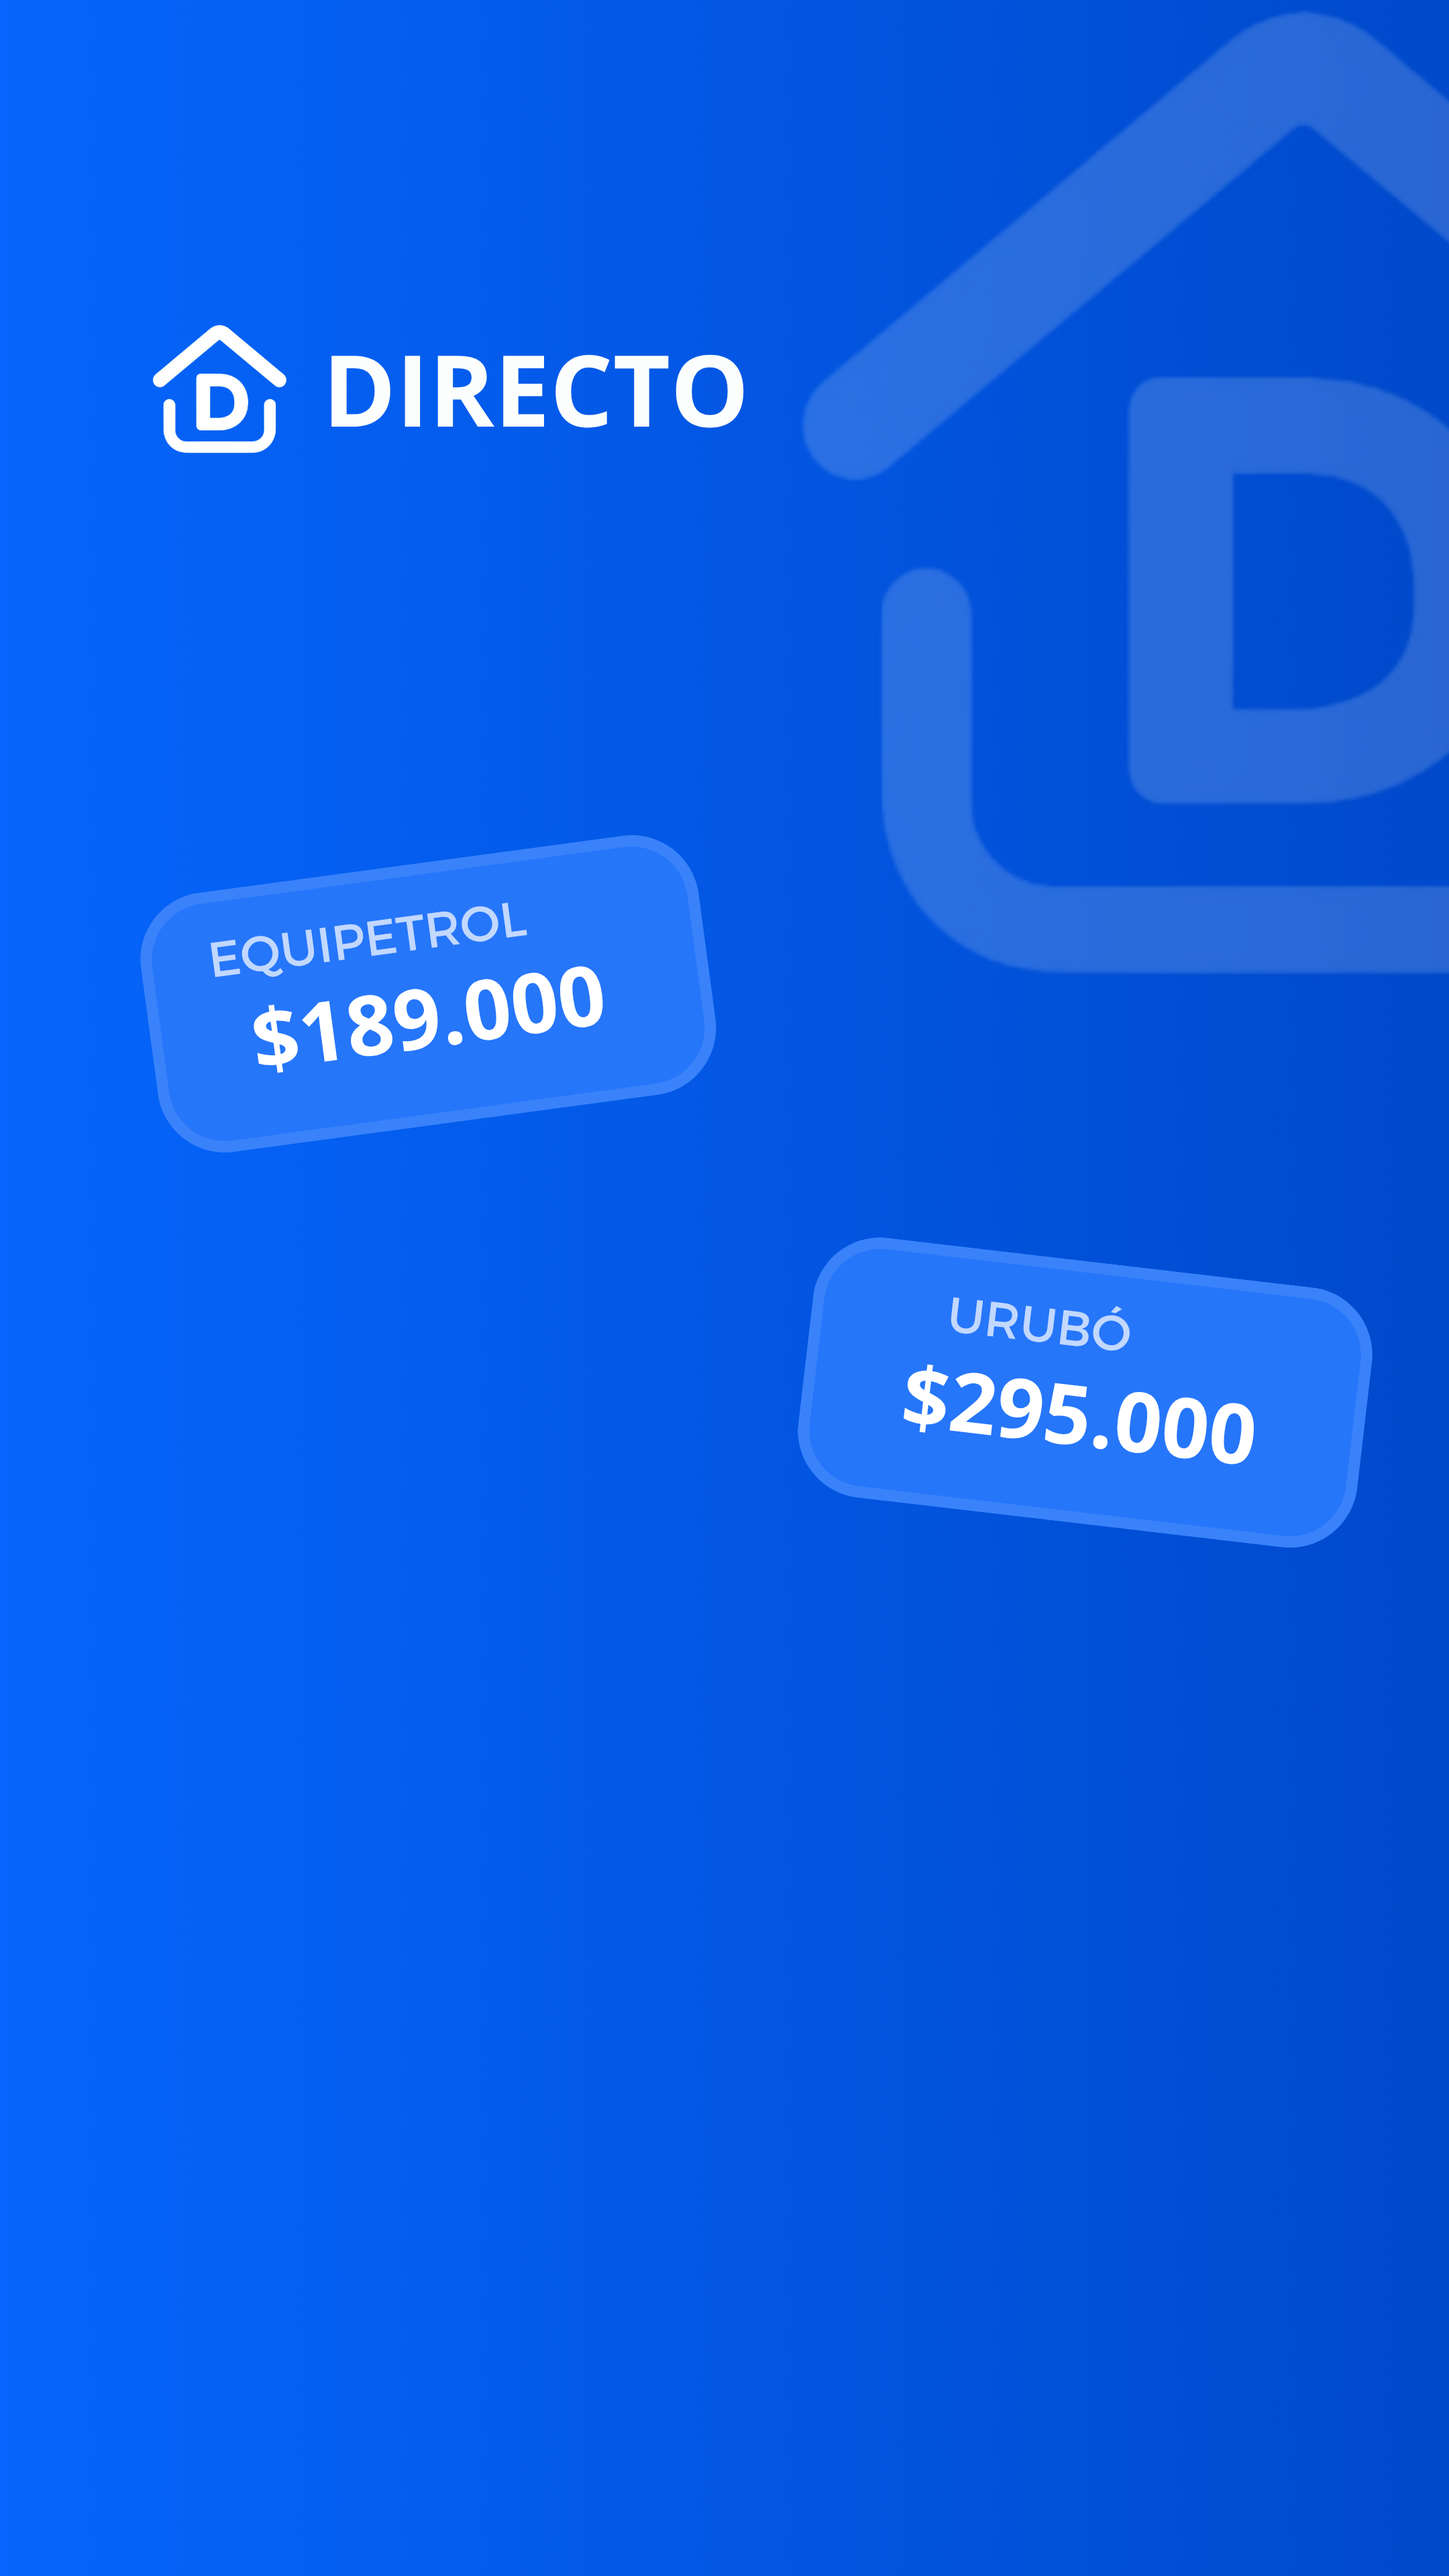
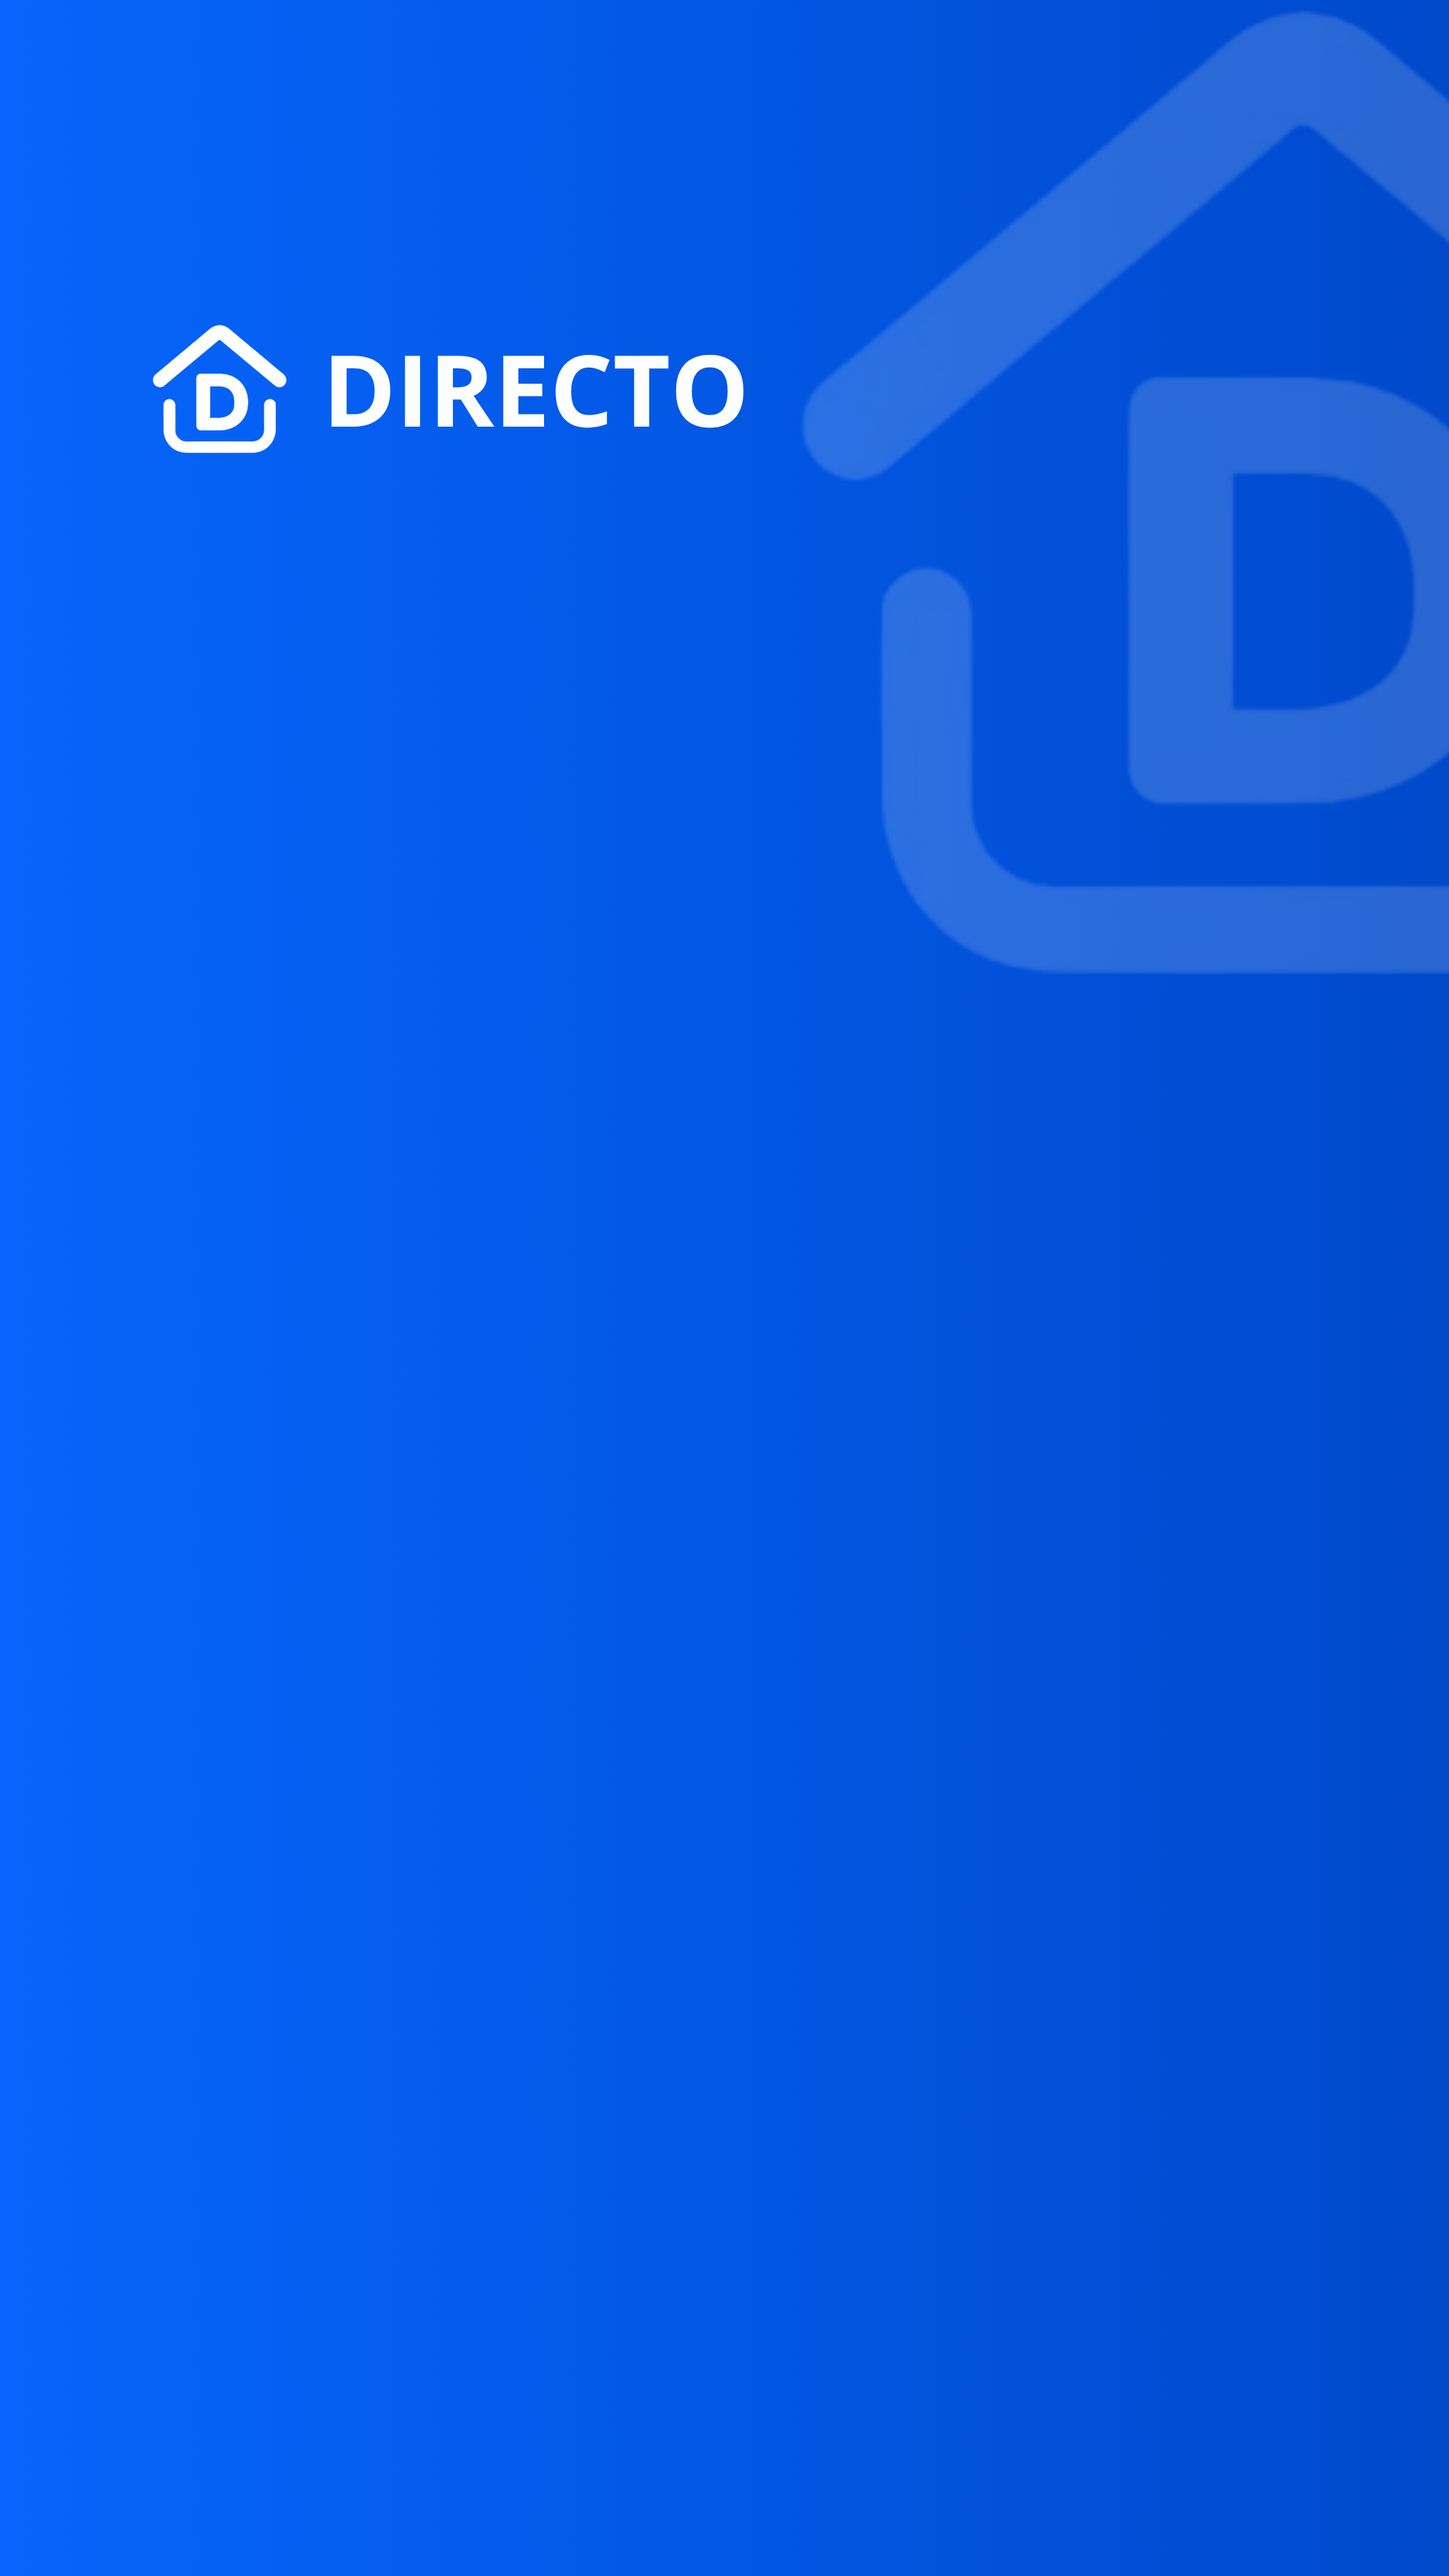
feat: nueva imagen de onboarding + fix padding del chat de soporte
- Reemplaza el fondo de onboarding por el nuevo diseño con logo DIRECTO
- El input del chat de soporte usaba un padding fijo en Android que se
  solapaba con los botones de navegación; ahora usa el safe-area inset

Changed region(s): [[0.5273, 0.4688, 0.9616, 0.625], [0.0931, 0.3125, 0.4963, 0.4688]]

diff --git a/apps/mobile/src/components/support/OwnerSupportChat.tsx b/apps/mobile/src/components/support/OwnerSupportChat.tsx
@@ -13,6 +13,7 @@ import {
   TouchableOpacity,
   View,
 } from 'react-native';
+import { useSafeAreaInsets } from 'react-native-safe-area-context';
 import { useAuth } from '../../context/AuthContext';
 import { Colors, Fonts, Radius, Spacing } from '../../constants/theme';
 import api from '../../services/api';
@@ -75,6 +76,7 @@ export default function OwnerSupportFAB() {
 // se abre el mismo chat, con toda la memoria de lo ya conversado.
 function AssistantScreen({ visible, onClose }: { visible: boolean; onClose: () => void }) {
   const { isAuthenticated } = useAuth();
+  const insets = useSafeAreaInsets();
   const [thread, setThread] = useState<Thread | null>(null);
   const [messages, setMessages] = useState<Message[]>([]);
   const [inputText, setInputText] = useState('');
@@ -236,7 +238,7 @@ function AssistantScreen({ visible, onClose }: { visible: boolean; onClose: () =
           />
         )}
 
-        <View style={styles.inputBar}>
+        <View style={[styles.inputBar, { paddingBottom: Math.max(insets.bottom, Spacing.sm) }]}>
           <TextInput
             style={styles.textInput}
             placeholder="Escribe qué necesitas..."
@@ -335,7 +337,7 @@ const styles = StyleSheet.create({
 
   inputBar: {
     flexDirection: 'row', alignItems: 'flex-end', padding: Spacing.sm,
-    paddingBottom: Platform.OS === 'ios' ? 30 : Spacing.sm, backgroundColor: Colors.white,
+    backgroundColor: Colors.white,
     borderTopWidth: 1, borderTopColor: Colors.gray[100], gap: Spacing.sm,
   },
   textInput: {
